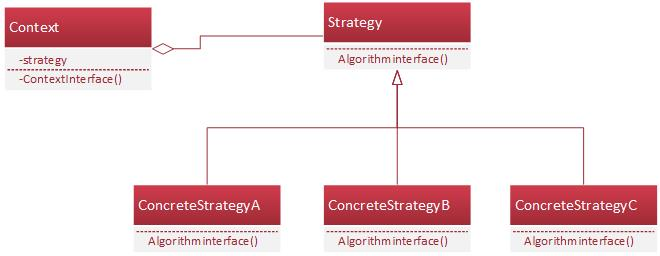
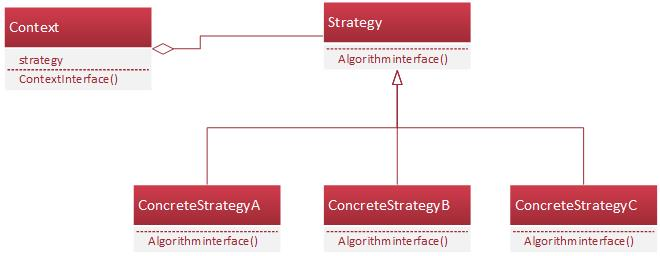
modify strategy UML/readme; add cpp sample.

Changed region(s): [[0.0303, 0.2188, 0.1818, 0.3438]]

diff --git a/strategy/src/desginMode.cpp b/strategy/src/desginMode.cpp
@@ -1,0 +1,90 @@
+// designMode.cpp : Defines the entry point for the console application.
+//
+
+#include "stdafx.h"
+
+class Coord{
+};
+
+class Compositor{
+public:
+	virtual int Compose(Coord natural[], Coord stretch[], Coord shrink[], int componentCount, int lineWidth, int breaks[]) = 0;
+
+protected:
+	Compositor(){};
+};
+
+class Composition {
+public:
+	Composition(Compositor* compositor){
+		_compositor = compositor;
+	};
+
+	void Repair(){
+		printf("Composition Repair().\n");
+		Coord* natural = NULL;
+		Coord* strectchability = NULL;
+		Coord* shrinkability = NULL;
+		int componentCount = 0;
+		int* breaks = NULL;
+
+		int breakCount;
+		breakCount = _compositor->Compose(natural, strectchability, shrinkability, componentCount, _lineWidth, breaks);
+	};
+
+private:
+	Compositor* _compositor;
+	//Component* _componentes;
+	int _componentCount;
+	int _lineWidth;
+	int* _lineBreaks;
+
+	int _lineCount;
+};
+
+class SimpleCompositor : public Compositor{
+public:
+	SimpleCompositor(){};
+
+	virtual int Compose(Coord natural[], Coord stretch[], Coord shrink[], int componentCount, int lineWidth, int breaks[]){
+		printf("SimpleCompositor compose.\n");
+		return 0;
+	}
+};
+
+class TexCompositor : public Compositor{
+public:
+	TexCompositor(){};
+
+	virtual int Compose(Coord natural[], Coord stretch[], Coord shrink[], int componentCount, int lineWidth, int breaks[]){
+		printf("TexCompositor compose.\n");
+		return 0;
+	}
+};
+
+class AarrayCompositor : public Compositor{
+public:
+	AarrayCompositor(){};
+
+	virtual int Compose(Coord natural[], Coord stretch[], Coord shrink[], int componentCount, int lineWidth, int breaks[]){
+		printf("AarrayCompositor compose.\n");
+		return 0;
+	}
+};
+
+int _tmain(int argc, _TCHAR* argv[])
+{
+	printf("Design Mode -- strategy\n");
+
+	Composition* quick = new Composition(new SimpleCompositor);
+	Composition* slick = new Composition(new TexCompositor);
+	Composition* iconic = new Composition(new AarrayCompositor);
+
+	quick->Repair();
+	slick->Repair();
+	iconic->Repair();
+
+	int a;
+	scanf("%d", &a);
+	return 0;
+}

diff --git a/strategy/src/desginMode.java b/strategy/src/desginMode.java
@@ -1,5 +1,5 @@
 
-public class desginModeBase {
+public class desginMode {
 	
 	public static void main(String[] args) {
         System.out.println("Desgin Mode -- Strategy");

diff --git a/strategy/README.md b/strategy/README.md
@@ -8,64 +8,6 @@
 
 #### SampleCode类图
 
-#### Sample Code
-```
-public class desginModeBase {
-	
-    public static void main(String[] args) {
-        System.out.println("Desgin Mode -- Strategy");
-        
-        int paramA = 10;
-        int paramB = 12;
-        int result = 0;
-        
-        System.out.println("paramA:"+paramA+" paramB:"+paramB);
-        
-        Context context = new Context(new addStrategy());
-        result = context.method(paramA, paramB);
-        System.out.println("add strategy reuslt:"+result);
-        
-        context.setStrategy(new subStrategy());
-        result = context.method(paramA, paramB);
-        System.out.println("sub strategy reuslt:"+result);
-    }
-
-	public interface Strategy{
-	    public int method(int paramA, int paramB);
-	}
-	
-	public static class addStrategy implements Strategy{
-		public int method(int paramA, int paramB){
-			return (paramA + paramB);
-		}
-	}
-	
-	public static class subStrategy implements Strategy{
-		public int method(int paramA, int paramB){
-			return (paramA - paramB);
-		}
-	}
-
-	public static class Context{
-		private Strategy strategy;
-		
-		public Context(Strategy strategy){
-			this.strategy = strategy;
-		}
-		
-		public void setStrategy(Strategy strategy){
-			this.strategy = strategy;
-		}
-		
-		public int method(int paramA, int paramB){
-			return strategy.method(paramA, paramB);
-		}	
-	}
-}
-
-```
-
-
 #### 优点
 > 1. 相关算法系列
 > 2. 一个替代继承的方法
